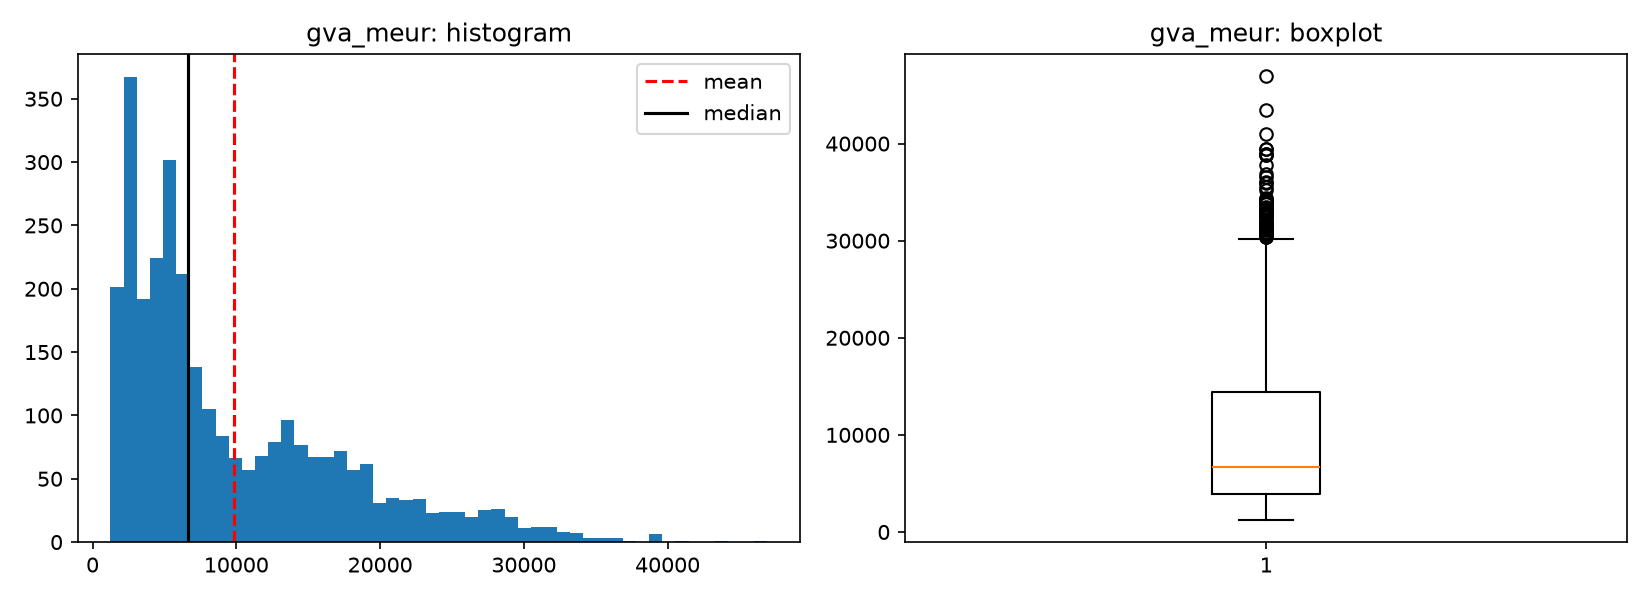
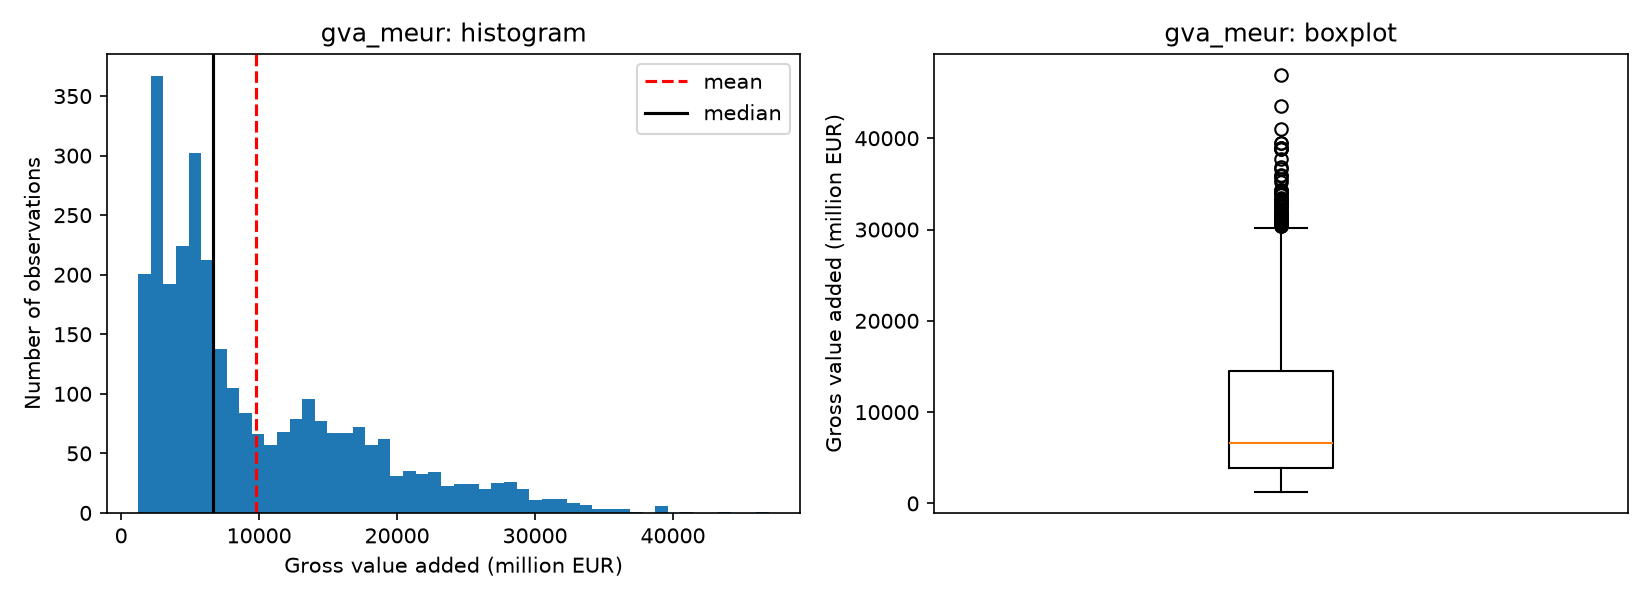
Session 02: add axis labels with units to plots

diff --git a/groups/A2026/group-02/session-02/session02_lab.py b/groups/A2026/group-02/session-02/session02_lab.py
@@ -16,6 +16,11 @@ from scipy import stats
 
 ANGLE = "data/spine/angle_a_sector.parquet"      # <- your group's angle
 VARS = ["elec_use_gwh", "gva_meur", "energy_cost_share"]   # <- your three variables
+UNITS = {
+    "elec_use_gwh": "Electricity use (GWh)",
+    "gva_meur": "Gross value added (million EUR)",
+    "energy_cost_share": "Energy cost share (share of gross output, 0–1)",
+}
 
 
 def centre(x):
@@ -96,10 +101,14 @@ def plot_variable(df, col, outdir="groups/A2026/group-02/session-02"):
     ax1.axvline(x.mean(), color="red", linestyle="--", label="mean")
     ax1.axvline(x.median(), color="black", label="median")
     ax1.set_title(f"{col}: histogram")
+    ax1.set_xlabel(UNITS.get(col, col))
+    ax1.set_ylabel("Number of observations")
     ax1.legend()
 
     ax2.boxplot(x)
     ax2.set_title(f"{col}: boxplot")
+    ax2.set_ylabel(UNITS.get(col, col))
+    ax2.set_xticks([])
 
     fig.tight_layout()
     fig.savefig(f"{outdir}/{col}.png", dpi=150)
